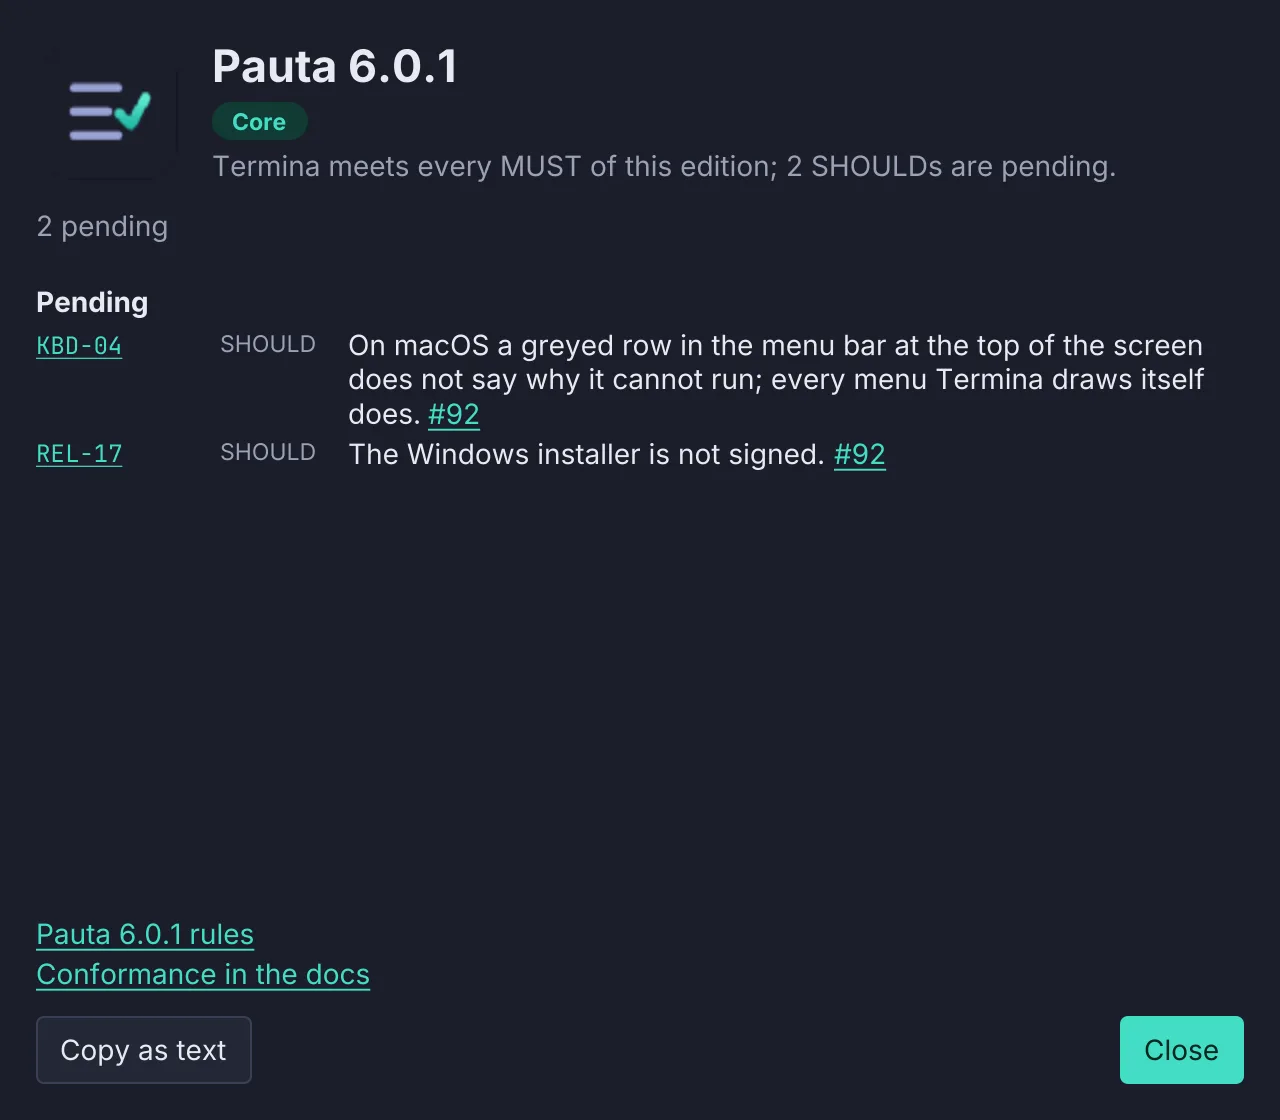
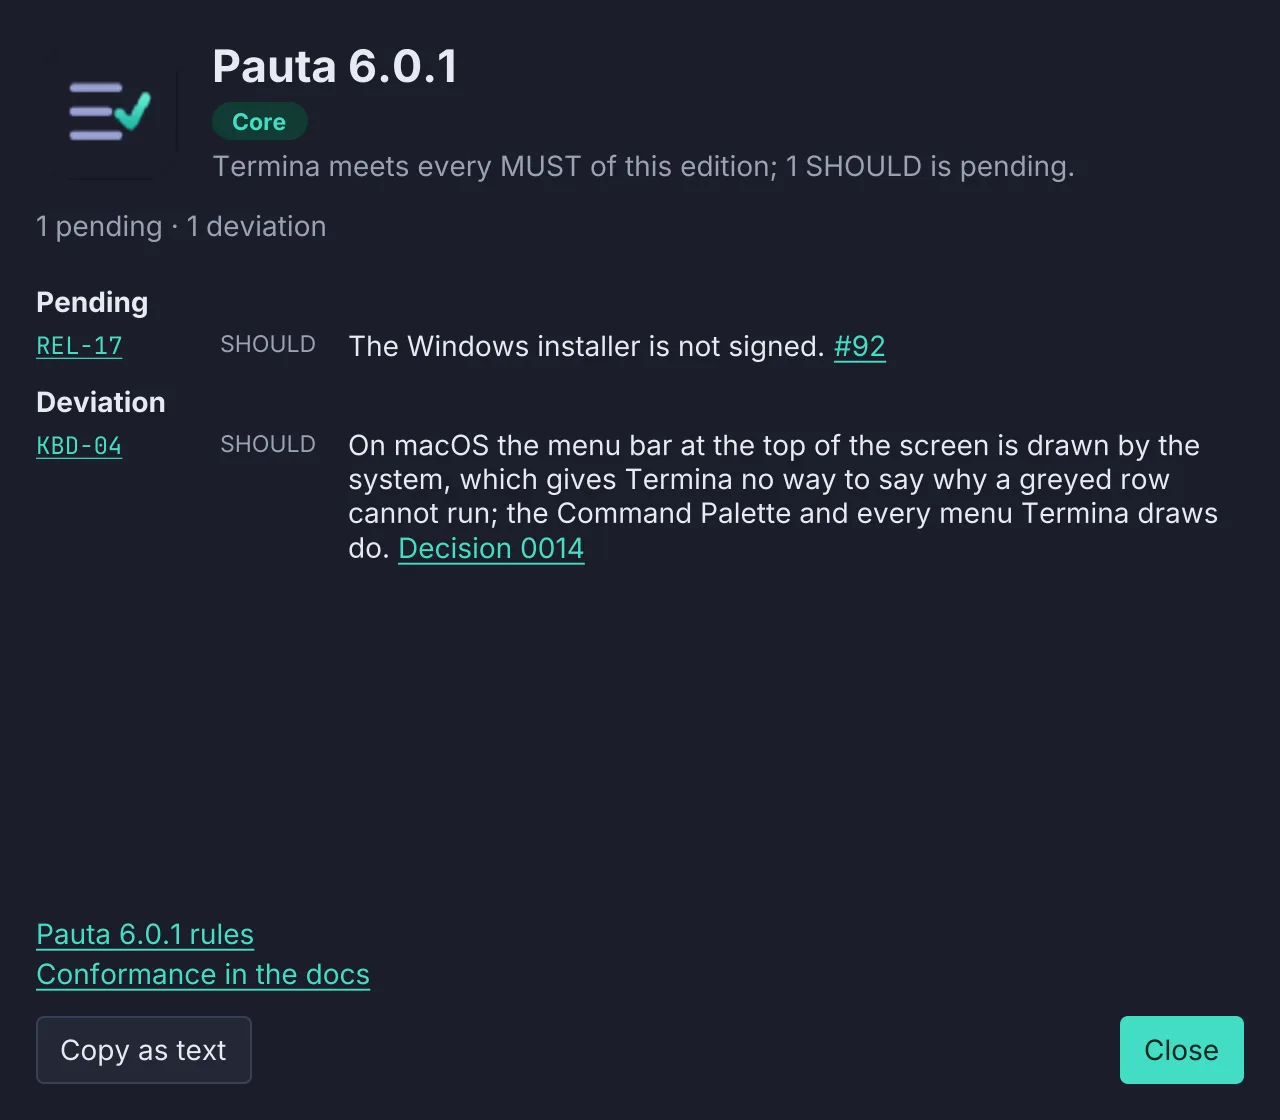
Conformance page regenerated: one pending, one deviation
pauta.md, its picture, whats-new.md, roadmap.md and the generated data,
regenerated from Termina's pauta-kbd-04 branch as 0.15.0. KBD-04 is a
recorded deviation now, so the page has a Deviations section for the first
time, linking the app's decision record 0014; REL-17 is the one rule pending.

diff --git a/src/lib/commands.ts b/src/lib/commands.ts
@@ -1,5 +1,5 @@
 // AUTO-GENERATED by scripts/GenCommands.java — do not edit by hand.
-// Source: messages.properties and the key maps in the Termina repository, at pauta-docs-04.
+// Source: messages.properties and the key maps in the Termina repository, at pauta-kbd-04.
 // Re-run the script after a release, or after a command or a chord changes.
 
 // A chord is its keys in order, given separately for Linux and Windows (pc) and for macOS

diff --git a/src/lib/version.ts b/src/lib/version.ts
@@ -1,5 +1,5 @@
 // AUTO-GENERATED by scripts/GenCommands.java — do not edit by hand.
-// Source: Termina's pom.xml <version> at pauta-docs-04, or the newest released CHANGELOG.md
+// Source: Termina's pom.xml <version> at pauta-kbd-04, or the newest released CHANGELOG.md
 // section while the pom is on a -SNAPSHOT between releases; here given with --as, ahead of the release.
 
 export const version = "0.15.0";

diff --git a/src/content/docs/pauta.md b/src/content/docs/pauta.md
@@ -13,7 +13,7 @@ required, a **SHOULD** is expected unless there is a stated reason.
 
 Termina is built to **[Pauta 6.0.1](https://pauta-project.dev/6.0.1/)**.
 
-**Pauta conformance: Core.** Termina meets every MUST of this edition; 2 SHOULDs are pending.
+**Pauta conformance: Core.** Termina meets every MUST of this edition; 1 SHOULD is pending.
 
 | Conformance | Means |
 |---|---|
@@ -29,9 +29,16 @@ and the conformance.
 
 ## Pending
 
-Rules Termina does not meet yet. Each one links the issue that tracks it. 2 rules: 0 MUST, 2 SHOULD.
+Rules Termina does not meet yet. Each one links the issue that tracks it. 1 rule: 0 MUST, 1 SHOULD.
 
 | Rule | Level | What is different | Link |
 |---|---|---|---|
-| <a href="https://pauta-project.dev/6.0.1/keyboard/#kbd-04" style="white-space: nowrap"><code>KBD-04</code></a> | SHOULD | On macOS a greyed row in the menu bar at the top of the screen does not say why it cannot run; every menu Termina draws itself does. | [#92](https://github.com/adriandeleon/Termina/issues/92) |
 | <a href="https://pauta-project.dev/6.0.1/release/#rel-17" style="white-space: nowrap"><code>REL-17</code></a> | SHOULD | The Windows installer is not signed. | [#92](https://github.com/adriandeleon/Termina/issues/92) |
+
+## Deviations
+
+Recommendations Termina follows differently on purpose. Each one links the decision record that says why. 1 rule: 0 MUST, 1 SHOULD.
+
+| Rule | Level | What is different | Link |
+|---|---|---|---|
+| <a href="https://pauta-project.dev/6.0.1/keyboard/#kbd-04" style="white-space: nowrap"><code>KBD-04</code></a> | SHOULD | On macOS the menu bar at the top of the screen is drawn by the system, which gives Termina no way to say why a greyed row cannot run; the Command Palette and every menu Termina draws do. | [Decision 0014](https://github.com/adriandeleon/Termina/blob/master/docs/decisions/0014-no-reason-on-a-greyed-row-of-the-macos-menu-bar.md) |

diff --git a/src/content/docs/whats-new.md b/src/content/docs/whats-new.md
@@ -176,10 +176,12 @@ done.
 
 ### Changed
 
-- **Termina is built to Pauta 6.0.1 at Core conformance**: every MUST of the edition is met, and
-  two SHOULDs are pending. About and Help ▸ Pauta Conformance say "Built to Pauta 6.0.1" where
-  they said "Working toward". The last three MUSTs were the user guide on the website: its
-  pictures of the real window, its Installing page and its conformance page.
+- **Termina is built to Pauta 6.0.1 at Core conformance**: every MUST of the edition is met. One
+  SHOULD is pending, the Windows installer's signature, and one is a recorded deviation: on macOS a
+  greyed row in the screen's menu bar does not say why it cannot run, because the system draws
+  that bar; the Command Palette does. About and Help ▸ Pauta Conformance say "Built to Pauta
+  6.0.1" where they said "Working toward". The last three MUSTs were the user guide on the
+  website: its pictures of the real window, its Installing page and its conformance page.
 - **An imported colour scheme is stored as JSON.** A theme is `themes/<name>.json` in the settings
   folder, where it was `<name>.properties`. Each theme you have is rewritten the first time
   Termina starts, under the same name, and the file it was is kept beside it as

diff --git a/src/content/docs/roadmap.md b/src/content/docs/roadmap.md
@@ -27,8 +27,11 @@ None: every MUST of the edition is met, which makes the conformance Core.
 
 ### SHOULD
 
-- [ ] **[KBD-04](https://pauta-project.dev/6.0.1/keyboard/#kbd-04)** On macOS a greyed row in the menu bar at the top of the screen does not say why it cannot run; every menu Termina draws itself does.
 - [ ] **[REL-17](https://pauta-project.dev/6.0.1/release/#rel-17)** The Windows installer is not signed.
+
+One SHOULD is a recorded deviation and not open work:
+[KBD-04](https://pauta-project.dev/6.0.1/keyboard/#kbd-04), on macOS's screen menu bar, in
+[decision 0014](https://github.com/adriandeleon/Termina/blob/master/docs/decisions/0014-no-reason-on-a-greyed-row-of-the-macos-menu-bar.md).
 
 Every optional rule (MAY) that applies is met.
 
